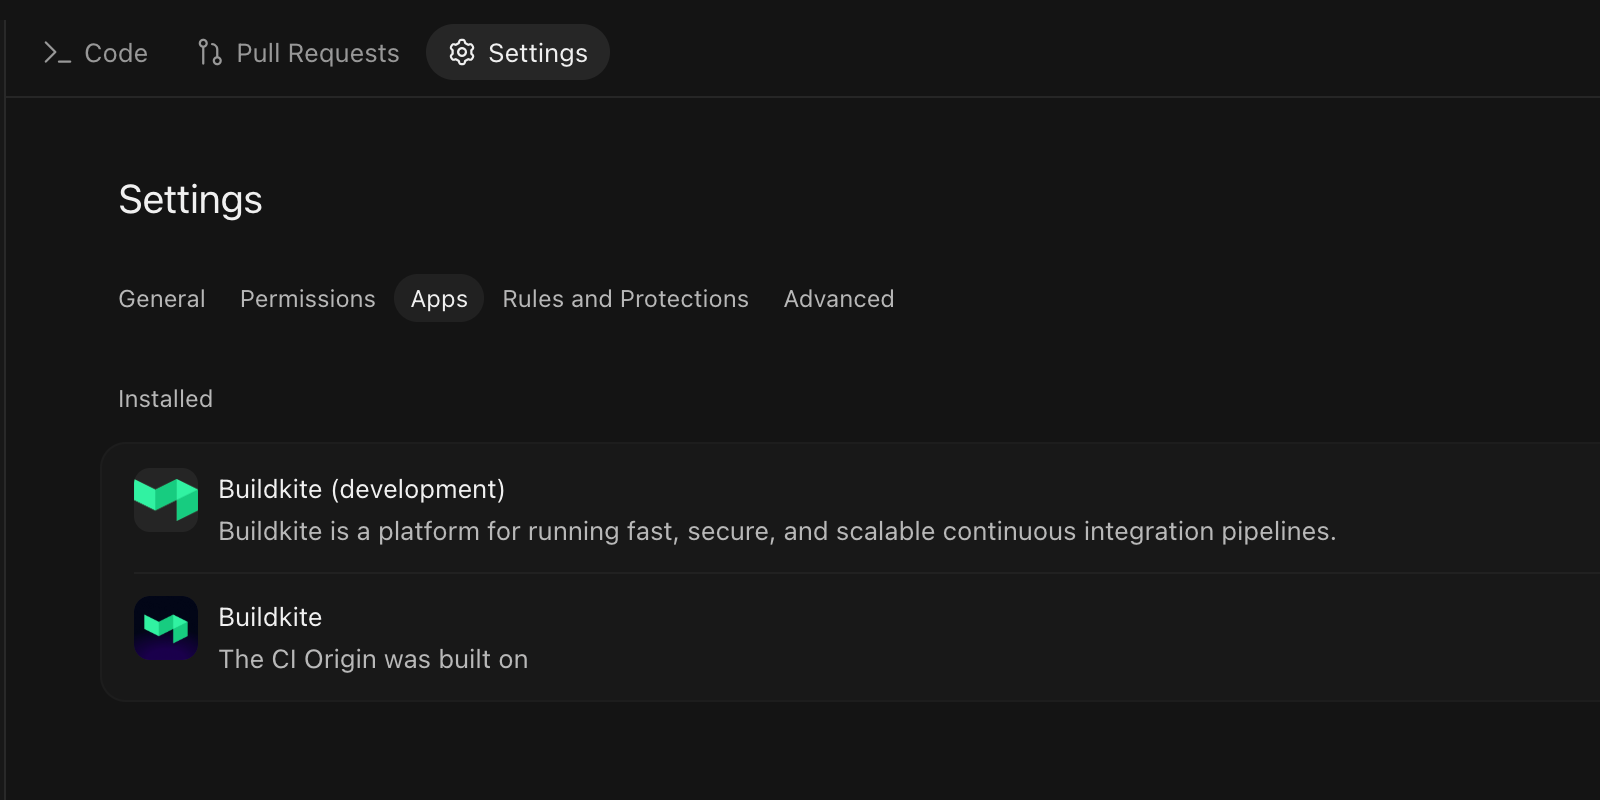
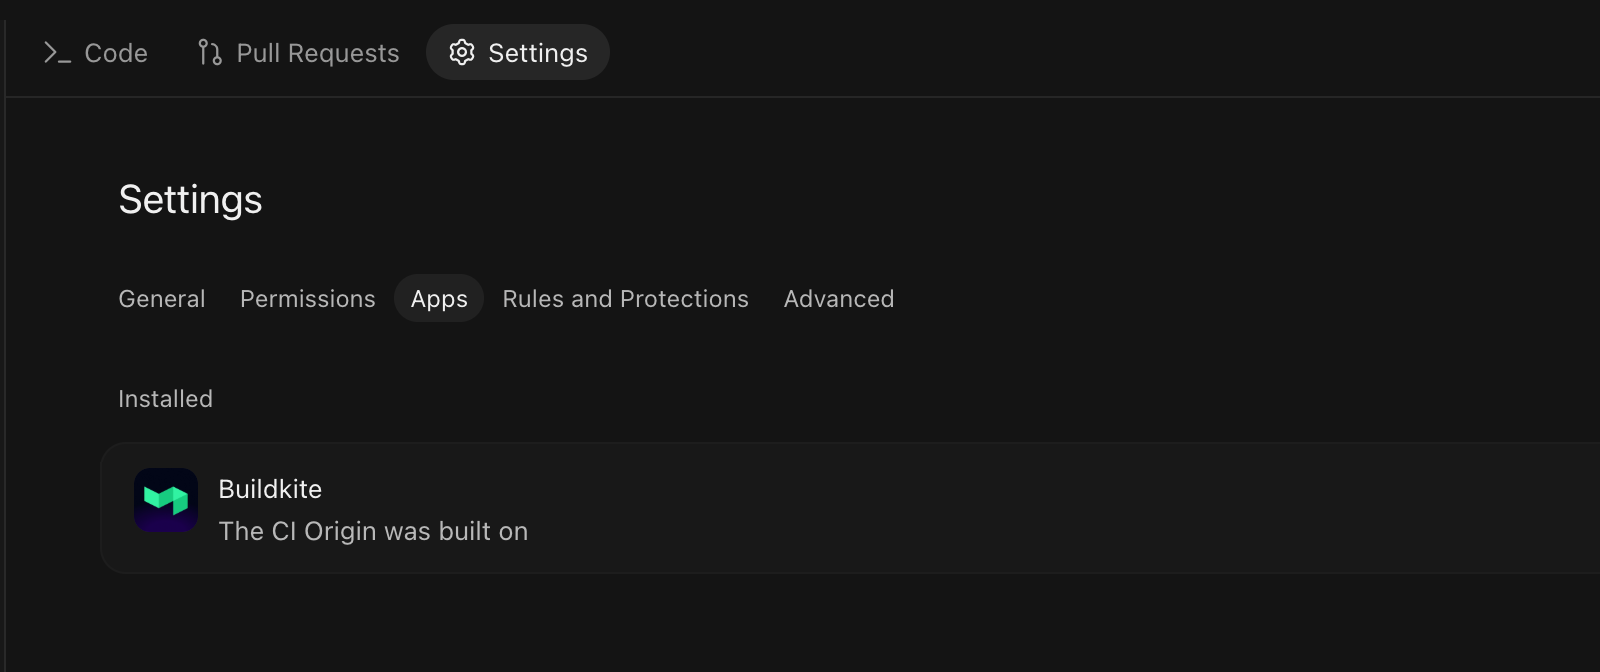
Crop Origin installed app screenshot
Amp-Thread-ID: https://ampcode.com/threads/T-01a01ec1-e943-761b-a1a9-f2e31038b7fe

diff --git a/pages/pipelines/source_control/origin.md b/pages/pipelines/source_control/origin.md
@@ -30,7 +30,7 @@ You must be an Origin administrator to install Buildkite from a codebase's setti
 1. Select or create a Buildkite organization. Buildkite names the verified Origin account before you confirm the connection. Check that it matches the installation you started from.
 1. On the **New Pipeline** page, select a repository and create the pipeline.
 
-<%= image "installed-buildkite.png", width: 1600/2, height: 800/2, alt: "Origin repository Apps settings showing Buildkite under Installed" %>
+<%= image "installed-buildkite.png", width: 1600/2, height: 672/2, alt: "Origin repository Apps settings showing Buildkite under Installed" %>
 
 _The repository **Apps** settings list Buildkite after installation._
 
